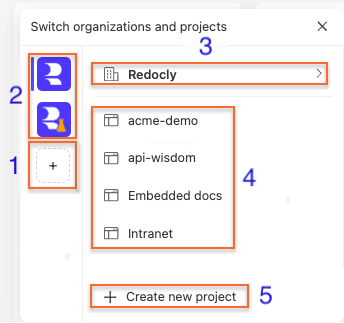
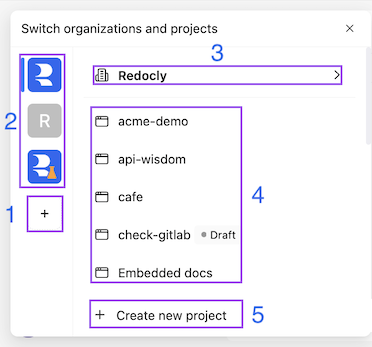
docs(realm): 23947 update project UI information and screenshots (#24338)
remoteId: rem_01jwbtfqhbbam07z9j9m0etng6
remoteUpdateId: grupd_01kw9f7h7ezckjj1yh4d140jys
branchName: main
commitSha: e953aeeed73281580f14d82abb733028c7934842
commitUrl: https://github.com/Redocly/redocly/commit/e953aeeed73281580f14d82abb733028c7934842

Changed region(s): [[0.0, 0.0619, 0.9884, 0.9907], [0.9302, 0.0619, 0.9593, 0.0929]]

diff --git a/docs/realm/reunite/project/project-ui.md b/docs/realm/reunite/project/project-ui.md
@@ -16,6 +16,8 @@ plans:
 Reference the user interface (UI) of pages in Reunite's project workspace.
 Learn about the various ways you can utilize the interface controls.
 
+Some UI elements are available only for users with specific organization and project roles.
+
 ## General interface
 
 {% img
@@ -55,8 +57,8 @@ Use the organization and projects menu to:
 
 - (1) create a new organization
 - (2) switch between organizations
-- (3) return to the organization's **Overview** page
-- (4) switch between projects
+- (3) return to the organization's **Projects** page
+- (4) [switch between projects](./manage-projects.md#switch-between-projects)
 - (5) [create a new project](./manage-projects.md#create-a-project)
 
 ## Editor
@@ -65,7 +67,7 @@ The **Editor** page is the part of Reunite's project workspace where you add, ed
 The page has two main areas:
 
 - the file tree pane
-- the editor pane, which contains both file tabs and utility tabs (Webview, Documentation)
+- the editor pane, which contains both file tabs and the utility pane (**Webview**, **Documentation** and **Replay** tabs)
 
 To best suit your experience, you can resize the file tree pane, collapse it, and reorganize the editor pane by [splitting and rearranging tabs](#manage-editor-tabs).
 
@@ -123,7 +125,7 @@ The commit tab lists all changes to files since the last commit.
 Use this tab to commit changes, open pull requests, revert uncommitted changes to files, and view the commit history.
 
 {% img
-  alt="Screenshot of the Commit tab in Reunite editor"
+  alt="Screenshot of the Commit tab in Reunite editor with History panel expanded"
   src="../images/editor-commit-tab.png"
   withLightbox=true
 /%}
@@ -137,13 +139,13 @@ In this tab you can:
 
 ## Editor pane
 
-The editor contains the tabs that display the content you are working with.
-Every open file opens as a tab, and utility views such as the Webview live preview or Redocly documentation open as tabs in the same pane.
+The editor contains tabs that display the content you are working with.
+Every file opens as a tab, and utility views such as the Webview live preview or Redocly documentation open as tabs in the same pane.
 You can rearrange, split, and close any of these tabs to build the layout that best fits your workflow.
 
-Each tab group header includes a **+** icon that opens the start tab.
+Each tab group header includes a **+** icon that opens the start tab (labeled **New tab**).
 
-The start tab lets you:
+With the start tab you can:
 
 - open recent files
 - search files by name
@@ -157,13 +159,14 @@ If you single-click another file, the new file replaces the preview tab.
 To keep a file open, double-click its tab or start editing the file.
 This converts the preview tab into a regular tab.
 
-### Utility tabs
+### Utility pane
 
-You can open two utility tabs in the editor dock:
+You can open three utility tabs in the editor dock:
 
-- **Webview** - displays a live preview of the opened Markdown or API description file.
+- **Webview**: Displays a live preview of the opened Markdown or API description file.
   See [Use the Webview](./use-webview.md) for details.
-- **Documentation** - displays Realm documentation with full capabilities of a Redocly project.
+- **Documentation**: Displays Realm documentation with full capabilities of a Redocly project.
+- **Replay**: Opens the **Replay** console, enabling you to test API requests and API functions in your project.
 
 To open a utility tab, either:
 
@@ -187,21 +190,24 @@ The **Webview** live preview tab renders the currently open Markdown or API desc
 - (1) [navigate to previously opened pages](./use-webview.md#navigate-pages)
 - (2) [reload webview](./use-webview.md#reload)
 - (3) view the slug to the file displayed in the webview
-- (4) [switch the view between screen sizes](./use-webview.md#view-different-screen-sizes)
-- (5) [open webview in a new browser window or tab](./use-webview.md#view-different-screen-sizes)
-- (6) use the **More actions** menu to:
+- (4) open a utility tab, or search in project files
+- (5) use the editor's **More actions** menu to: [manage editor tabs](#manage-editor-tabs)
+- (6) [switch the view between screen sizes](./use-webview.md#view-different-screen-sizes)
+- (7) [open webview in a new browser window or tab](./use-webview.md#open-webview-in-a-new-window-or-tab)
+- (8) use the utility pane's **More actions** menu to:
   - [fully restart webview](./use-webview.md#full-restart)
   - [disable automatic syncing of changes to files with webview live preview](./use-webview.md#disable-auto-sync)
-- (7) [display webview build validation errors](./use-webview.md#view-errors)
-- (8) [display the number of pages in the project](./use-webview.md#view-project-page-count)
-- (9) [view webview build logs](./use-webview.md#access-build-logs-in-the-webview-tab)
+- (9) [display webview build validation errors](./use-webview.md#view-project-build-errors)
+- (10) [display the number of pages in the project](./use-webview.md#view-project-page-count)
+- (11) click and drag the status bar to move it out of the way
+- (12) [view webview build logs](./use-webview.md#access-build-logs-in-the-webview-tab)
 
-### Docs tab
+### Documentation tab
 
-The docs tab displays Realm documentation with full capabilities of a Redocly project.
+The **Documentation** tab displays Realm documentation with full capabilities of a Redocly project.
 
 {% img
-  alt="Screenshot of the Docs tab in Reunite editor"
+  alt="Screenshot of the Documentation tab in Reunite editor"
   src="../images/editor-docs-tab.png"
   withLightbox=true
 /%}
@@ -214,12 +220,12 @@ In this tab you can:
 - (4) open the displayed page in a new window or tab
 - (5) [interact with pages](https://redocly.com/docs/end-user/interact-with-pages)
 
-### Manage editor tabs
+## Manage editor tabs
 
 Right-click any tab to open the tab context menu and choose one of the following actions:
 
 - **Close** - close the tab.
-- **Close others** - close every other tab in the same group.
+- **Close others** - close every tab in the same group other than the active tab.
 - **Close to the right** - close the tabs to the right of the current tab in the same group.
 - **Close unchanged** - close every file tab in the group that has no uncommitted changes.
 - **Close all** - close every tab in the group.
@@ -231,9 +237,9 @@ You can also drag a tab by its header and drop it on the edges or center of anot
 The **More actions** icon on the right side of each tabs header provides group-level shortcuts to:
 
 - Close all or close unchanged tabs in that group.
-- Set default 2-pane editor layout.
-- Open the Webview or Documentation utility tab.
-- Toggle word wrap for the active editor tab (when a text file is active).
+- Reset the editor to the default layout with an empty tab group in the center of the screen, and a utility tab group on the right.
+- Open the Webview, Documentation, or Replay utility tab.
+- Toggle word wrap for the active editor tab.
 
 ## Resources
 

diff --git a/docs/realm/reunite/project/use-webview.md b/docs/realm/reunite/project/use-webview.md
@@ -129,7 +129,6 @@ You can drag the status bar along the bottom edge of the Webview to move it out 
   withLightbox=true
 /%}
 
-
 ### View project page count
 
 The project status bar in the **Webview** tab displays the current number of pages in your project.
